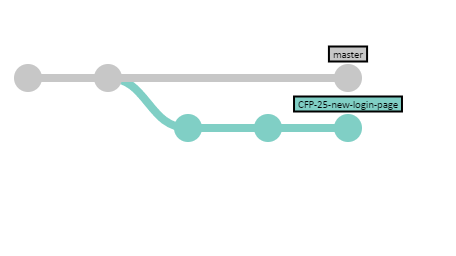
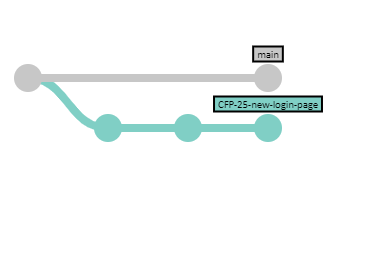
Rename master to main (#7)
* Rename master branch name to main

* Update images with new branch names

Changed region(s): [[0.4681, 0.1562, 0.9069, 0.5625], [0.0293, 0.25, 0.4388, 0.5625]]

diff --git a/git-workflow/source/gitGraph.html b/git-workflow/source/gitGraph.html
@@ -1003,7 +1003,7 @@
    * @param {GitGraph} options.parent - GitGraph constructor
    * @param {Number} options.x - Position X (dot)
    * @param {Number} options.y - Position Y (dot)
-   * @param {String} options.color - Master color (dot & message)
+   * @param {String} options.color - main color (dot & message)
    * @param {Boolean} options.arrowDisplay - Add a arrow under commit dot
    * @param {String} [options.author = this.parent.author] - Author name & email
    * @param {String} [options.date] - Date of commit, default is now
@@ -1341,7 +1341,7 @@
    * @param {Number} [options.commit.spacingX] - Space between commits
    * @param {Number} [options.commit.spacingY] - Space between commits
    * @param {Number} [options.commit.widthExtension = 0]  - Additional width to be added to the calculated width
-   * @param {String} [options.commit.color] - Master commit color (dot & message)
+   * @param {String} [options.commit.color] - main commit color (dot & message)
    * @param {String} [options.commit.dot.color] - Commit dot color
    * @param {Number} [options.commit.dot.size] - Commit dot size
    * @param {Number} [options.commit.dot.strokeWidth] - Commit dot stroke width
@@ -1846,8 +1846,8 @@
 					elementId: 'initialCommitGraph'
 				});
 
-				let master = gitGraph.branch('master');
-				master = master.commit('Initial commit');
+				let main = gitGraph.branch('main');
+				main = main.commit('Initial commit');
 			}());
 		</script>
 
@@ -1862,10 +1862,10 @@
 					elementId: 'workStartedGraph'
 				});
 
-				let master = gitGraph.branch('master');
-				master = master.commit('Initial commit');
+				let main = gitGraph.branch('main');
+				main = main.commit('Initial commit');
 				let featureBranch = gitGraph.branch({
-					parentBranch: master,
+					parentBranch: main,
 					name: 'CFP-25-new-login-page'
 				});
 				featureBranch.commit('(pending changes)');
@@ -1883,16 +1883,16 @@
 					elementId: 'workStartedGraphParallel'
 				});
 
-				let master = gitGraph.branch('master');
-				master = master.commit('Initial commit');
+				let main = gitGraph.branch('main');
+				main = main.commit('Initial commit');
 				let featureBranch = gitGraph.branch({
-					parentBranch: master,
+					parentBranch: main,
 					name: 'CFP-25-new-login-page'
 				});
 				featureBranch.commit('(pending changes)');
 
 				let secondFeatureBranch = gitGraph.branch({
-					parentBranch:  master,
+					parentBranch:  main,
 					name: 'CFP-26-rework-styles'
 				});
 				secondFeatureBranch.commit('(pending changes');
@@ -1909,11 +1909,11 @@
 					elementId: 'workStartedWithSomeCommits'
 				});
 
-				let master = gitGraph.branch('master');
-				master.commit('Initial commit');
+				let main = gitGraph.branch('main');
+				main.commit('Initial commit');
 
-				let featureBranch = master.branch('CFP-25-new-login-page');
-				let secondFeatureBranch = master.branch('CFP-26-rework-styles');
+				let featureBranch = main.branch('CFP-25-new-login-page');
+				let secondFeatureBranch = main.branch('CFP-26-rework-styles');
 
 				featureBranch.commit('Created page');
 				secondFeatureBranch.commit('(pending changes');
@@ -1932,15 +1932,15 @@
 					elementId: 'secondBranchMerged'
 				});
 
-				let master = gitGraph.branch('master');
-				master.commit('Initial commit');
+				let main = gitGraph.branch('main');
+				main.commit('Initial commit');
 
-				let featureBranch = master.branch('CFP-25-new-login-page');
+				let featureBranch = main.branch('CFP-25-new-login-page');
 
 				featureBranch.commit('Created page');
 				featureBranch.commit('Added basic styles')
 					.commit('Added required fields validation');
-				master.commit("Paul's changes");
+				main.commit("Paul's changes");
 			}());
 		</script>
 
@@ -1954,11 +1954,11 @@
 					elementId: 'featureBranchRebased'
 				});
 
-				let master = gitGraph.branch('master');
-				master.commit('Initial commit');
-				master.commit("Paul's changes");
+				let main = gitGraph.branch('main');
+				main.commit('Initial commit');
+				main.commit("Paul's changes");
 
-				let featureBranch = master.branch('CFP-25-new-login-page');
+				let featureBranch = main.branch('CFP-25-new-login-page');
 
 				featureBranch.commit('Created page');
 				featureBranch.commit('Added basic styles')
@@ -1976,16 +1976,16 @@
 					elementId: 'featureBranchMerged'
 				});
 
-				let master = gitGraph.branch('master');
-				master.commit('Initial commit');
-				master.commit("Paul's changes");
+				let main = gitGraph.branch('main');
+				main.commit('Initial commit');
+				main.commit("Paul's changes");
 
-				let featureBranch = master.branch('CFP-25-new-login-page');
+				let featureBranch = main.branch('CFP-25-new-login-page');
 
 				featureBranch.commit('Created page');
 				featureBranch.commit('Added basic styles')
 					.commit('Added required fields validation');
-				master.commit("Dimitri's changes");
+				main.commit("Dimitri's changes");
 			}());
 		</script>
 
@@ -1999,10 +1999,10 @@
 					elementId: 'workflowFinished'
 				});
 
-				let master = gitGraph.branch('master');
-				master.commit('Initial commit');
-				master.commit("Paul's changes");
-				master.commit("Dimitri's changes");
+				let main = gitGraph.branch('main');
+				main.commit('Initial commit');
+				main.commit("Paul's changes");
+				main.commit("Dimitri's changes");
 			}());
 		</script>
 	</body>

diff --git a/git-workflow/README.md b/git-workflow/README.md
@@ -32,15 +32,15 @@ Dimitri will read, ask questions and take notes on his task. Once ready, he'll s
 But first! He needs to make sure he'll start from the latest version of the code.
 
 ```console
-git checkout master
-git pull origin master
+git checkout main
+git pull origin main
 ```
 
 <img src="images/initialCommit.png" alt="initial commit" align="left" />
 
-With the first command, Dimitri made sure he was "standing" on the `master` branch, the branch where the latest valid version of the code is. This is where other developers have the accepted code, so he doesn't want to miss the latest changes.
+With the first command, Dimitri made sure he was "standing" on the `main` branch, the branch where the latest valid version of the code is. This is where other developers have the accepted code, so he doesn't want to miss the latest changes.
 
-You can see at the left what the repository looks like: just the `master` branch, which may have some history, but we'll start from this point.
+You can see at the left what the repository looks like: just the `main` branch, which may have some history, but we'll start from this point.
 
 <br clear="both" />
 
@@ -52,7 +52,7 @@ git checkout -b CFP-25-new-login-page
 
 <img src="images/workStarted.png" alt="work started" align="left" />
 
-Note that while now Dimitri has a branch starting off from `master`, there are no extra changes from him. Even if he hasn't commited, every pending change is now in his local work folder.
+Note that while now Dimitri has a branch starting off from `main`, there are no extra changes from him. Even if he hasn't commited, every pending change is now in his local work folder.
 
 Regarding the branch name, the `CFP-25` portion helps finding that particular branch between a lot other branches. The rest of the branch name is to make it easier to see, or to add more branches for the same ticket (for example, bug fixes or adjustments that require a branch of their own).
 
@@ -88,13 +88,13 @@ _(Takeaways: rebase, code reviews, reviewers)_
 
 Now that Dimitri is done, he'll send the changes for his team to review what he has done. It's not that he's not good at development (he's excellent), but four eyes are better than two. Also, there are aspects around the technical direction of the project that he may not be aware of.
 
-Best case scenario, everything will be perfect and accepted and he will be able to merge his code into the `master` branch. But wait! Turns out that Paul already integrated his changes, so now `master` is not what we started with!
+Best case scenario, everything will be perfect and accepted and he will be able to merge his code into the `main` branch. But wait! Turns out that Paul already integrated his changes, so now `main` is not what we started with!
 
 In order to verify this, Dimitri will bring back again the latest changes from the repository:
 
 ```console
-# either by doing a pull on master
-git pull origin master
+# either by doing a pull on main
+git pull origin main
 
 # or by fetching all branches from the remote repository
 # using prune to delete old branches that don't exist anymore
@@ -103,13 +103,13 @@ git fetch origin --prune
 
 <img src="images/secondBranchMerged.png" alt="second branch merged" align="left" />
 
-This being the case, Dimitri will have to re-base his changes. This is, changing the base of his changes so that his commits start from the new latest version of `master`.
+This being the case, Dimitri will have to re-base his changes. This is, changing the base of his changes so that his commits start from the new latest version of `main`.
 
 ```console
-git rebase master
+git rebase main
 ```
 
-This will take him through a process of rewinding back to the first commit that both branches share, and re-playing the commits on top of the new `master`. Good this is all automatic!
+This will take him through a process of rewinding back to the first commit that both branches share, and re-playing the commits on top of the new `main`. Good this is all automatic!
 
 Dimitri will only have to intervene if there are any conflicts. If this happens, it means that a particular commit made a change where the other branch had already made changes, so Dimitri will have to make the decision on what's the final truth.
 
@@ -137,7 +137,7 @@ Turns out that both Tanya and Paul found elements that they're not sure about. S
 
 When decisions are made, all that Dimitri has to do is add new commits to his branch, and they will be showing in the PR. Platforms like GitHub or Bitbucket will hide comments that are no longer applicable, so be mindful about that!
 
-In the case where `master` has already advanced again, Dimitri will rebase it again. It's his responsibility that reviewers are watching the actual difference that will be applied to the code, and if the base branch is wrong, then he's lying to his team.
+In the case where `main` has already advanced again, Dimitri will rebase it again. It's his responsibility that reviewers are watching the actual difference that will be applied to the code, and if the base branch is wrong, then he's lying to his team.
 
 ## Work is approved: ready to merge
 
@@ -150,16 +150,16 @@ A squash merge takes a set of changes (commits) and squashes them into a single 
 <img src="images/githubSquashMerge.png" alt="GitHub squash merge" />
 
 ```console
-git checkout master
+git checkout main
 git merge --squash CF-25-new-login-page
-git push origin master
+git push origin main
 ```
 
-At this point, `master` has a new commit with the contents from the `CF-25-new-login-page` branch, so the merge is done! But wait, there is still that branch lingering around, and we don't need it anymore.
+At this point, `main` has a new commit with the contents from the `CF-25-new-login-page` branch, so the merge is done! But wait, there is still that branch lingering around, and we don't need it anymore.
 
 <img src="images/featureBranchMerged.png" alt="Feature branch merged" />
 
-This looks a lot like the case where our branch needed to be rebased, but in this case, the changes are already part of the `master` branch, so we don't care about the feature branch anymore.
+This looks a lot like the case where our branch needed to be rebased, but in this case, the changes are already part of the `main` branch, so we don't care about the feature branch anymore.
 
 Dimitri proceeds to delete his feature branch:
 
@@ -184,7 +184,7 @@ Here's a quick rundown of the steps Dimitri did:
 - Get latest changes
 - Start a new branch (`git checkout -b featureBranch`)
 - Perform his changes
-- Get latest, move his work on top of the latest (`git rebase master`)
+- Get latest, move his work on top of the latest (`git rebase main`)
 - Create a pull request
 - Perform corrections as needed
 - Get latest, squash-merge his changes on the destination branch (`git merge --squash featureBranch`)

diff --git a/git-workflow/conventions.md b/git-workflow/conventions.md
@@ -150,7 +150,7 @@ Good examples:
 
 - `develop`: main development branch. Code should reach this branch after being reviewed by the proper approvers. This is where new features branches start from.
 - `release`: the release candidate for your next upcoming release. If you have multiple releases happening simultaneously, feel free to have several `release-xxx` branches. (Replace `xxx` with a description that suits you.) This is where bugfixing branches for the release start from.
-- `master`: the latest version of your production environment. This is where hotfix branches start from.
+- `main`: the latest version of your production environment. This is where hotfix branches start from.
 
 If you happen to use continuous delivery for the development, QA and production environments, `develop`, `qa` and `production` are also good alternatives for these names, but keep in mind that forked repositories will not keep the CD system configured.
 
